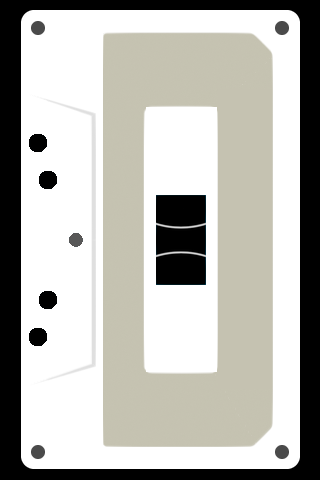
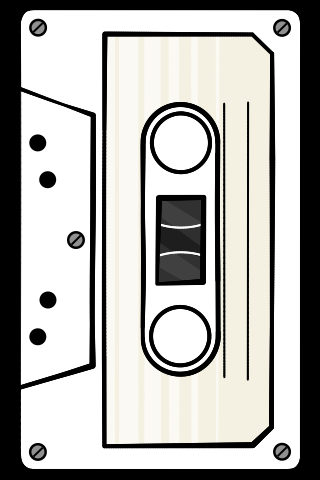
cassette plugin fixes

diff --git a/cassette/cpage.c b/cassette/cpage.c
@@ -69,6 +69,7 @@ static bool sprite_load(const char *dir, const char *name, lv_image_dsc_t *dsc, 
 #include <stdlib.h>
 #include <string.h>
 
+#include "common/oneline.h"
 #include "cpal.h"
 
 #include "src/gui/nowplaying/player.h"
@@ -166,6 +167,15 @@ static uint32_t anim_last_ms;
 // real sleeve lands. The picture itself is what moves the palette.
 static uint32_t shown_picture; // fingerprint of the sleeve on screen, 0 for none
 static bool shown_playing;
+
+// What the two labels were given last, as the strings the player handed over --
+// not what lv_label_get_text() says. With LV_LABEL_LONG_MODE_DOTS LVGL rewrites
+// the label's own buffer in place (the original is kept in its dot field and put
+// back only for the next measurement), so after a long name has been cut the
+// label's text is the cut one and comparing against it would set the same string
+// again on every poll: a free, a copy and a full refresh every 500 ms.
+static char shown_artist[256];
+static char shown_note[288];
 
 static void apply_palette(void);
 
@@ -271,20 +281,24 @@ static void build_cassette(void) {
 	lv_obj_set_flex_align(label_block, LV_FLEX_ALIGN_CENTER, LV_FLEX_ALIGN_START, LV_FLEX_ALIGN_CENTER);
 	lv_obj_set_style_pad_row(label_block, 0, 0);
 
+	// One line each, cut with dots: the paper column is 300 px along the label,
+	// and an artist or a record longer than that used to wrap onto a second line
+	// and push the other one out of the paper. oneline_label() pins the height to
+	// the face's own line, which is what makes LVGL cut instead of wrap.
 	artist_label = lv_label_create(label_block);
 	lv_obj_set_width(artist_label, lv_pct(100));
-	lv_label_set_long_mode(artist_label, LV_LABEL_LONG_WRAP);
 	lv_obj_set_style_text_font(artist_label, font_artist, 0);
 	lv_obj_set_style_text_color(artist_label, pal.ink, 0);
 	lv_obj_set_style_text_align(artist_label, LV_TEXT_ALIGN_CENTER, 0);
+	oneline_label(artist_label);
 	lv_label_set_text(artist_label, "");
 
 	note_label = lv_label_create(label_block);
 	lv_obj_set_width(note_label, lv_pct(100));
-	lv_label_set_long_mode(note_label, LV_LABEL_LONG_WRAP);
 	lv_obj_set_style_text_font(note_label, font_note, 0);
 	lv_obj_set_style_text_color(note_label, pal.body_dark, 0);
 	lv_obj_set_style_text_align(note_label, LV_TEXT_ALIGN_CENTER, 0);
+	oneline_label(note_label);
 	lv_label_set_text(note_label, "");
 
 	// The light goes over the lot of it, the writing included: it is the room
@@ -324,7 +338,8 @@ static void refresh_labels(const device_state_t *st) {
 	if (artist == NULL || artist[0] == '\0') {
 		artist = st->current_file[0] ? "Unknown artist" : "--";
 	}
-	if (strcmp(lv_label_get_text(artist_label), artist) != 0) {
+	if (strcmp(shown_artist, artist) != 0) {
+		snprintf(shown_artist, sizeof(shown_artist), "%s", artist);
 		lv_label_set_text(artist_label, artist);
 	}
 
@@ -339,7 +354,8 @@ static void refresh_labels(const device_state_t *st) {
 	} else {
 		snprintf(note, sizeof(note), "SIDE A");
 	}
-	if (strcmp(lv_label_get_text(note_label), note) != 0) {
+	if (strcmp(shown_note, note) != 0) {
+		snprintf(shown_note, sizeof(shown_note), "%s", note);
 		lv_label_set_text(note_label, note);
 	}
 }
@@ -559,6 +575,8 @@ lv_obj_t *cpage_build(const sonix_addon_host_t *host) {
 	cpal_default(&pal);
 	shown_picture = 0;
 	shown_playing = false;
+	shown_artist[0] = '\0';
+	shown_note[0] = '\0';
 	angle_deg = 0.0f;
 	anim_last_ms = lv_tick_get();
 
@@ -650,4 +668,6 @@ void cpage_stop(void) {
 	memset(&spr_light, 0, sizeof(spr_light));
 	cfg = NULL;
 	shown_picture = 0;
+	shown_artist[0] = '\0';
+	shown_note[0] = '\0';
 }

diff --git a/common/oneline.h b/common/oneline.h
@@ -1,0 +1,29 @@
+#ifndef ADDON_ONELINE_H
+#define ADDON_ONELINE_H
+
+#include "lvgl/lvgl.h"
+
+// A label on one line, cut with dots.
+//
+// LVGL has this itself: LV_LABEL_LONG_MODE_DOTS measures the text with the font
+// that is going to draw it, cuts it where the width runs out and writes "..."
+// in place of the rest. So there is no character count to guess -- a fixed one
+// is wrong in both directions, because this interface's faces are proportional
+// (measured on the cassette's Caveat at 22 px: 38 lower-case letters fit the
+// 300 px label, 26 capitals, and "The Weeknd, Playboi Carti & Madonna" is 35
+// characters at 297 px).
+//
+// Two things make the mode work, and they are why this is a function rather
+// than one lv_label_set_long_mode() at every call site:
+//
+// - the width has to be fixed -- an lv_pct(100) inside a sized parent is
+//   enough, LV_SIZE_CONTENT is not, there is nothing to cut against;
+// - the height has to be exactly one line, or the mode wraps to a second line
+//   instead of cutting. That height belongs to the font, and a page that
+//   guessed it would either cut descenders or leave half a line of paper.
+//
+// Call it after the label's font and width are set. A label whose font changes
+// afterwards (a size setting, a fallback face) has to be passed here again.
+void oneline_label(lv_obj_t *label);
+
+#endif // ADDON_ONELINE_H

diff --git a/common/oneline.c b/common/oneline.c
@@ -1,0 +1,14 @@
+#include "common/oneline.h"
+
+// The dots are LVGL's work (see the header); all this adds is the one number
+// the caller cannot know: the line of the font that is actually drawing.
+void oneline_label(lv_obj_t *label) {
+	if (label == NULL) {
+		return;
+	}
+	lv_label_set_long_mode(label, LV_LABEL_LONG_MODE_DOTS);
+	const lv_font_t *font = lv_obj_get_style_text_font(label, LV_PART_MAIN);
+	if (font != NULL) {
+		lv_obj_set_height(label, lv_font_get_line_height(font));
+	}
+}

diff --git a/.opencode/NOTES.md b/.opencode/NOTES.md
@@ -456,3 +456,33 @@ it keyed on `sonix-player/sonix-player/docker/Dockerfile` + `rockboxdev/**`.
   `/mnt/sd_0/.local/sonix_player.log` and it **appends** across restarts.
 - Screenshot: `dd if=/dev/fb0` is 320x480 BGRA with stride 1280; the panel is
   readable while the backlight is on only.
+
+## One-line labels: dots, not a character count (2026-11-11)
+
+- `common/oneline.{h,c}` — `oneline_label(lv_obj_t *label)`: `LV_LABEL_LONG_MODE_DOTS`
+  plus `lv_obj_set_height(label, lv_font_get_line_height(font))`. LVGL writes the
+  `...` itself and cuts with the real metrics of the font that draws (the
+  `LV_LABEL_LONG_DOT` spelling is a v9.1 compat alias; the enum in this LVGL is
+  `LV_LABEL_LONG_MODE_DOTS`). Called before the label's font and width are set,
+  the height is measured from the wrong face.
+- **The height is the whole trick.** `lv_label.c` computes dots only when
+  `size.y > lv_area_get_height(&txt_coords)` and cuts at the last visible line
+  (`p.y` rounded down to a whole line). Height of exactly one line = one line of
+  text ending in dots; `LV_SIZE_CONTENT` = it wraps and nothing is cut.
+- Why no magic number: the faces are proportional. Measured with FreeType on
+  `cassette/assets/Caveat.ttf` against the cassette's 300 px label — artist
+  22 px: 38 lower-case letters, 26 capitals, 35 Cyrillic lower-case, 31 digits;
+  "The Weeknd, Playboi Carti & Madonna" is 35 chars / 297 px (fits by 3 px),
+  "WWWWWWWWWW" is 10 chars / 160 px. Record line 16 px: 51 / 37 / 48 / 44.
+- The player's `src/gui/fonts/fonts.c` recognises a label pinned to one line by
+  its height being a whole number of its font's lines, so a UI size change keeps
+  it one line — that is a second reason to set the height and not just the mode.
+- Side effect worth knowing: `oneline_label()` replaces `LV_LABEL_LONG_WRAP`, so
+  the page must be able to afford a single line's height in its layout (cassette:
+  300x54 block holds 22 px + 16 px lines).
+- The library index is a 8.7 MB SQLite on the card, `/mnt/sd_0/.local/library.db`;
+  copy it to the device's `/tmp` first (`adb shell 'cp ... /tmp/lib.db'`) and pull
+  that, so a scan writing the real file cannot produce a torn read. Useful tables:
+  `MEDIA_TABLE(path,name,album,artist,...)` 3331 tracks, `ALBUM_ARTIST_LINK(path,album_artist)`
+  — the second is what `metadata_shown_artist()` answers with by default, and a file
+  with no album-artist tag has no row there, so the track's own artist shows instead.

diff --git a/docs/ADDONS.md b/docs/ADDONS.md
@@ -1440,6 +1440,18 @@ screen *after* `stop()` returns, so `stop()` hands the labels `&font_ui_24` /
 `&font_ui_14` first. Without that, LVGL reads a freed face while tearing the page
 down.
 
+**Both labels are one line, cut with dots.** The paper column is 300 px along
+the cassette, and the artist and the record used to wrap onto a second line and
+push each other out of it. `common/oneline.h` (`oneline_label()`) puts them in
+`LV_LABEL_LONG_MODE_DOTS` and pins the height to the face's own line, which is
+what makes LVGL cut instead of wrap and write `...` in place of the rest. There
+is no character count anywhere: the face is proportional, so a number would be
+wrong both ways. Measured on `assets/Caveat.ttf` against the 300 px label — 22 px
+artist line: 38 lower-case letters fit, 26 capitals, 35 Cyrillic lower-case, and
+"The Weeknd, Playboi Carti & Madonna" is 35 characters at 297 px; 16 px record
+line: 51 / 37 / 48. The same helper is in `common/` for every addon that has a
+label which must not grow.
+
 **Checked on a device, 2026-11-09.** Installed on the V3 over adb: the tile, the
 page, the palette from a real sleeve, the text on the label and the sprites all
 render there. The rotation of the hubs, the gestures and the memory the sprites

diff --git a/common/README.md b/common/README.md
@@ -18,6 +18,11 @@ What is here:
   `docs/ADDONS.md`, "The card is the slowest thing in the player".
 - `gunzip.{h,c}` — a small inflate for the `Content-Encoding: gzip` a proxy in
   front of a server may add whatever the request asked for.
+- `oneline.{h,c}` — a label kept to one line, cut with dots: LVGL's
+  `LV_LABEL_LONG_MODE_DOTS` with the height pinned to the face's own line, which
+  is what makes it write `...` instead of wrapping. No character count: the
+  faces are proportional (300 px of the cassette's Caveat at 22 px holds 38
+  lower-case letters and 26 capitals). The label needs a fixed width first.
 - `store.{h,c}` — an addon's own `key = value` settings file on the card, written
   atomically. Every addon that remembers anything (a session, a token, a quality)
   uses this rather than the player's `device_config.ini`: that file belongs to

diff --git a/.opencode/skills/sonix-addon/SKILL.md b/.opencode/skills/sonix-addon/SKILL.md
@@ -125,6 +125,14 @@ addon_cache_dir(host, cache, sizeof cache);               // <addon>/cache, crea
   with `lv_obj_set_scroll_dir(c, LV_DIR_VER)`.
 - A row name longer than ~18 characters overlaps its right-hand value; clip it
   yourself (`clip()` in `subsonic/page.c`).
+- A label that must stay on one line: `#include "common/oneline.h"`, give it a
+  fixed width first (`lv_pct(100)` of a sized parent counts), then
+  `oneline_label(label)` — it switches to `LV_LABEL_LONG_MODE_DOTS` and pins the
+  height to the face's own line, which is what makes LVGL cut and write `...`
+  instead of wrapping. No character count: the faces are proportional (300 px of
+  Caveat at 22 px holds 38 lower-case letters and 26 capitals). Called before
+  the font is set or before a later font change, the height is the wrong one —
+  call it again.
 
 ## Threads
 
